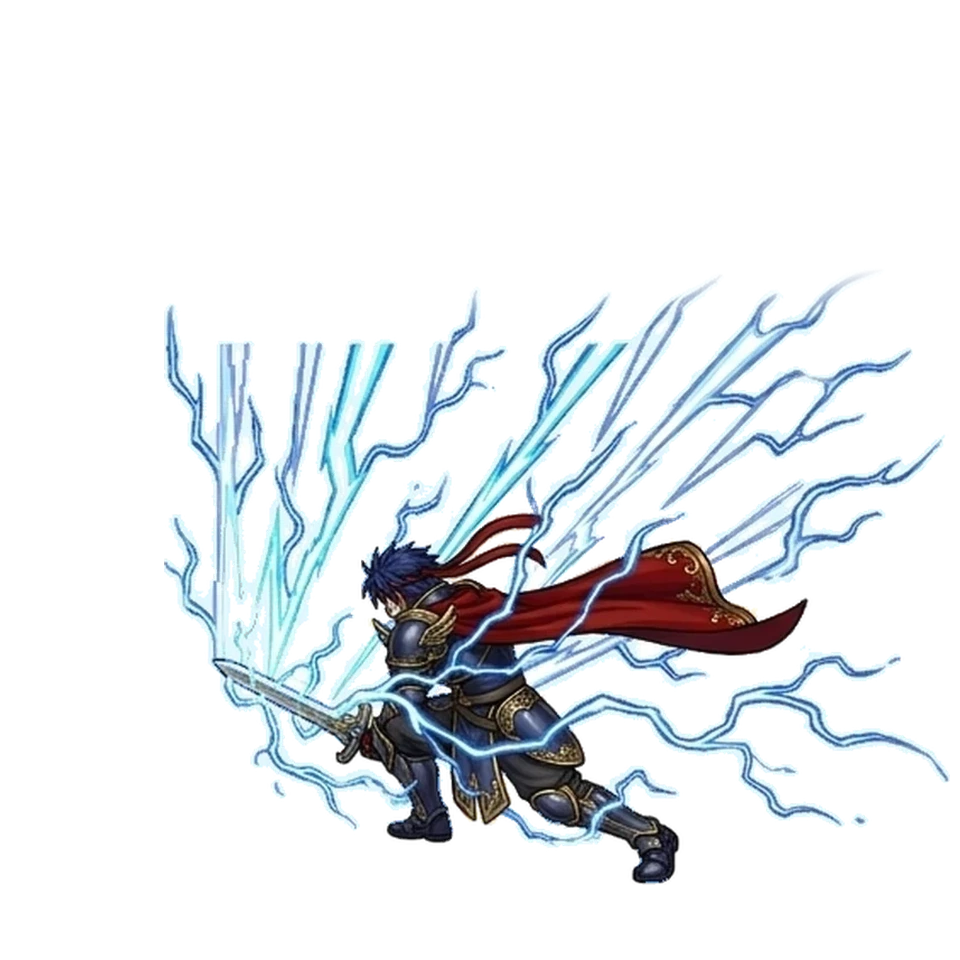
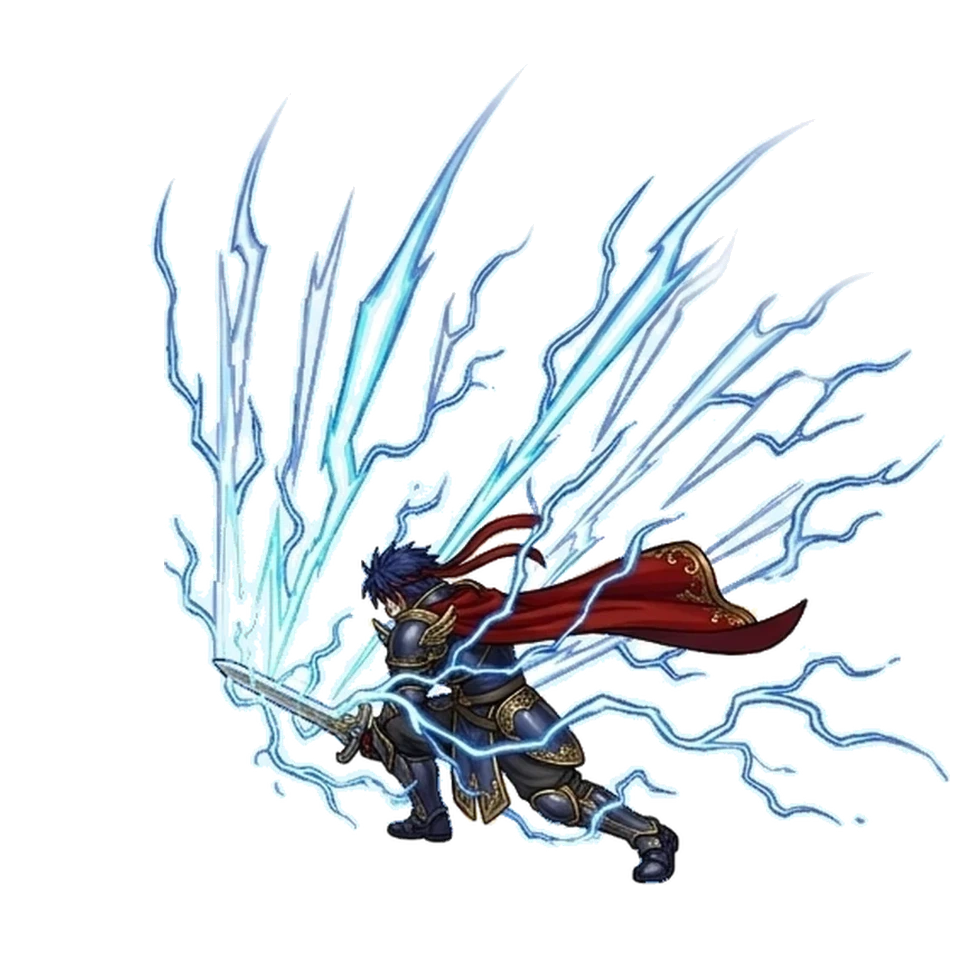
v95: restore tapered top lightning tips on #050 Thor F5 (nb6_4.webp)

diff --git a/src/gallery.ts b/src/gallery.ts
@@ -1195,7 +1195,7 @@ class MappingGalleryApp {
                   <div>
                     <div class="mono-tag" style="font-size:10px; color:#fde047; margin-bottom:2px;">💥 Crit Cut-In</div>
                     <img
-                      src="assets/vfx_lab/units/u_${String(entry.id).padStart(3, '0')}/cutin.jpg?v=94"
+                      src="assets/vfx_lab/units/u_${String(entry.id).padStart(3, '0')}/cutin.jpg?v=95"
                       loading="lazy"
                       alt="${entry.nameZh} Cut-In"
                       style="width:100%; aspect-ratio:16/9; object-fit:cover; border-radius:5px; border:1px solid #334155; background:#05080f;"
@@ -1204,7 +1204,7 @@ class MappingGalleryApp {
                   <div>
                     <div class="mono-tag" style="font-size:10px; color:#7dd3fc; margin-bottom:2px;">🖼 HD 6-Frame Sheet</div>
                     <img
-                      src="assets/vfx_lab/units/u_${String(entry.id).padStart(3, '0')}/nb6_sheet.jpg?v=94"
+                      src="assets/vfx_lab/units/u_${String(entry.id).padStart(3, '0')}/nb6_sheet.jpg?v=95"
                       loading="lazy"
                       alt="${entry.nameZh} 6-Frame Sheet"
                       style="width:100%; aspect-ratio:16/9; object-fit:contain; border-radius:5px; background:#ffffff; border:1px solid #334155;"

diff --git a/src/ui/vfxLab.ts b/src/ui/vfxLab.ts
@@ -291,7 +291,7 @@ function loadImg(url: string): Promise<HTMLImageElement> {
   });
 }
 
-const VFX_ASSET_VERSION = '?v=94';
+const VFX_ASSET_VERSION = '?v=95';
 
 function enrichUnitMetadataFromGameData(assets: AssetManager, entry: VfxManifestUnitEntry): VfxManifestUnitEntry {
   const dex = assets.gameData.unitDex?.[entry.uid];

diff --git a/src/ui/hdSpellVfx.ts b/src/ui/hdSpellVfx.ts
@@ -10,7 +10,7 @@
  * volumetric additive blooms, tapered lightning splines, and curved plasma beams.
  */
 
-export const HD_SPELL_ASSET_VERSION = '?v=94';
+export const HD_SPELL_ASSET_VERSION = '?v=95';
 
 export type HdSpellLayer = 'both' | 'behind' | 'front';
 
